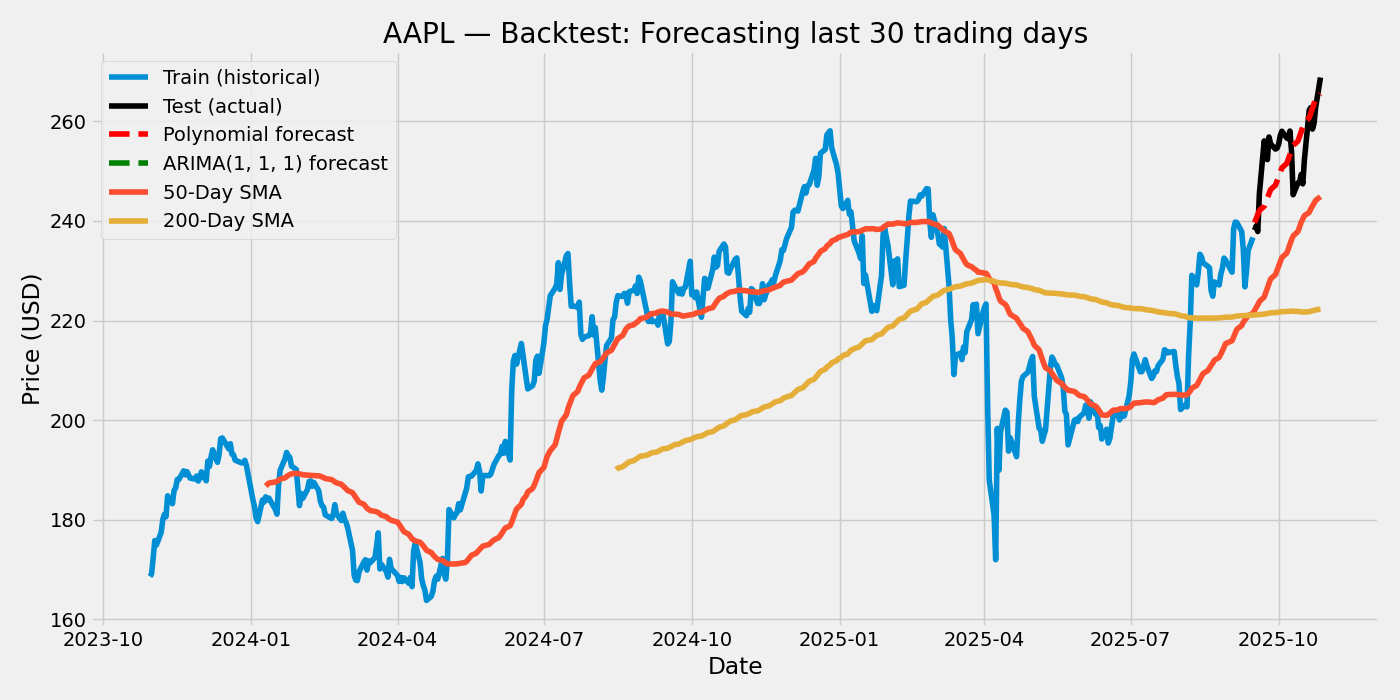
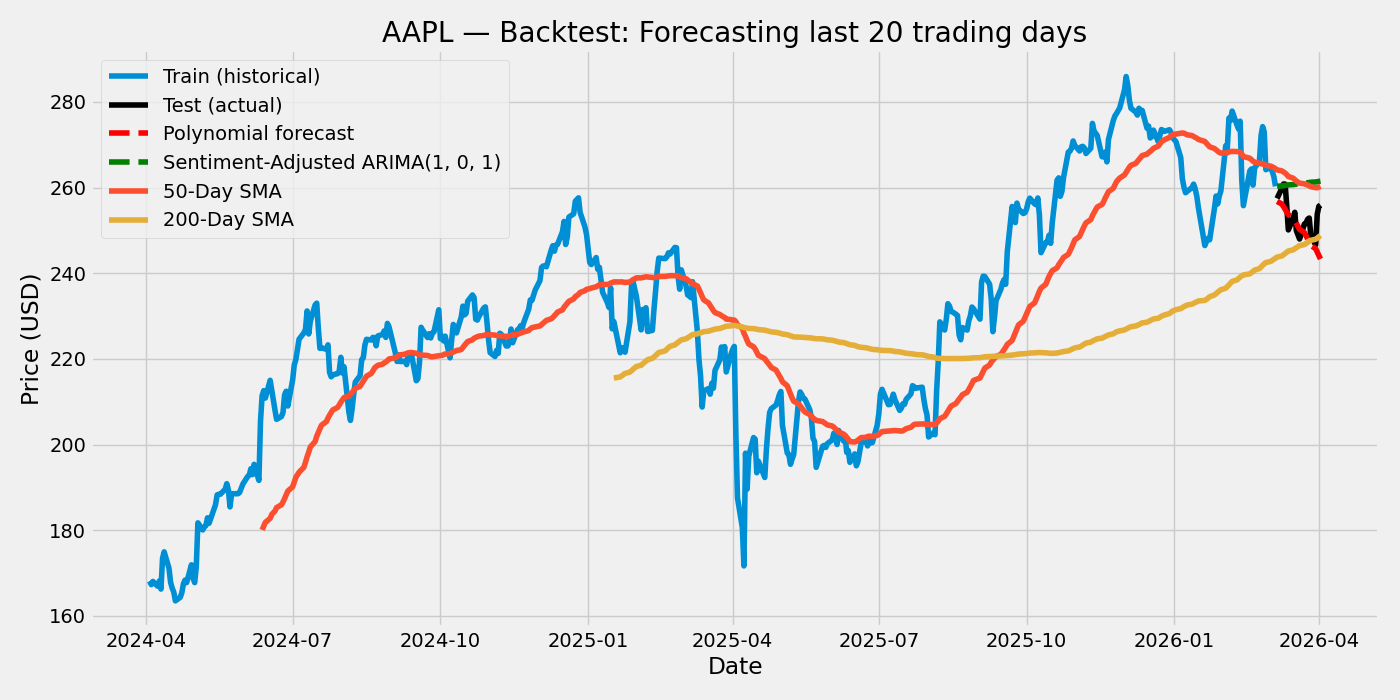
feat: integrate VADER sentiment analysis into ARIMA forecasting pipeline and add data inspection utility

diff --git a/analyzer.py b/analyzer.py
@@ -6,6 +6,15 @@ import yfinance as yf
 import pandas as pd
 import matplotlib.pyplot as plt
 import warnings
+import datetime
+import nltk
+from nltk.sentiment.vader import SentimentIntensityAnalyzer
+
+# Ensure the lexicon is downloaded quietly (only downloads if missing)
+try:
+    nltk.data.find('sentiment/vader_lexicon.zip')
+except LookupError:
+    nltk.download('vader_lexicon', quiet=True)
 
 try:
     # statsmodels used for ARIMA implementation
@@ -16,6 +25,76 @@ except Exception:
     ARIMA = None
     # we'll print a helpful message later if these aren't available
 
+def get_recent_news(ticker, days=3):
+    """
+    Fetches news for the given ticker and filters for articles 
+    published within the last specified number of days.
+    Includes a fallback to return all available news if the filter is too strict.
+    """
+    print(f"[*] Fetching news for {ticker}...")
+    
+    ticker_obj = yf.Ticker(ticker)
+    news = ticker_obj.news
+    
+    if not news:
+        print("[-] No news data found for this ticker from Yahoo Finance.")
+        return []
+
+    # Set up our time threshold (UTC)
+    now = datetime.datetime.now(datetime.timezone.utc)
+    threshold = now - datetime.timedelta(days=days)
+    
+    recent_articles = []
+    
+    for art in news:
+        if 'providerPublishTime' in art:
+            pub_time = datetime.datetime.fromtimestamp(
+                art['providerPublishTime'], datetime.timezone.utc
+            )
+            if pub_time > threshold:
+                recent_articles.append(art)
+                
+    # --- NEW FALLBACK LOGIC ---
+    if len(recent_articles) == 0:
+        print(f"[-] No articles strictly within the last {days} days.")
+        print(f"[*] Falling back to the {len(news)} most recent articles provided by the API.")
+        return news
+    # --------------------------
+        
+    print(f"[+] Found {len(recent_articles)} articles from the last {days} days.")
+    return recent_articles
+
+def calculate_vader_sentiment(articles):
+    """
+    Takes a list of news article dictionaries, extracts the titles,
+    and returns an average VADER compound sentiment score (-1 to 1).
+    """
+    if not articles:
+        print("[-] No articles to analyze. Defaulting sentiment to 0 (Neutral).")
+        return 0.0
+        
+    sia = SentimentIntensityAnalyzer()
+    scores = []
+    
+    for art in articles:
+        # Try to get the title directly, or from a nested 'content' dictionary if Yahoo changed it
+        title = art.get('title')
+        if not title and 'content' in art:
+            title = art['content'].get('title', '')
+            
+        if title:
+            score = sia.polarity_scores(title)['compound']
+            scores.append(score)
+            print(f"    -> Scored: {score:.4f} | Headline: {title[:50]}...")
+            
+    if not scores:
+        print("[-] Could not extract valid text from the API payload. Defaulting sentiment to 0 (Neutral).")
+        return 0.0
+        
+    avg_sentiment = sum(scores) / len(scores)
+    print(f"[+] Average Sentiment Score for recent news: {avg_sentiment:.4f}")
+    return avg_sentiment
+
 def analyze_stock(ticker):
     #Fetching historical data for the ticker symbol entered
     try:
@@ -24,6 +103,18 @@ def analyze_stock(ticker):
         if stock_data.empty:
             print(f"Error, no data found for the tickerSymbol '{ticker}', might be an invalid symbol")
             return
+        
+        # === INJECT THE SENTIMENT PIPELINE HERE ===
+        print("\n--- RUNNING SENTIMENT PIPELINE ---")
+        recent_news = get_recent_news(ticker, days=3)
+        sentiment_score = calculate_vader_sentiment(recent_news)
+        print("----------------------------------\n")
+        # ==========================================
+        
+        # Flatten MultiIndex columns if they exist (yfinance sometimes returns them for single tickers)
+        if isinstance(stock_data.columns, pd.MultiIndex):
+            stock_data.columns = stock_data.columns.get_level_values(0)
+
         #Simple mean average - sma of closing prices over 50days and 200 days
         stock_data['SMA_50'] = stock_data['Close'].rolling(window=50).mean()
         stock_data['SMA_200'] = stock_data['Close'].rolling(window=200).mean()
@@ -32,7 +123,7 @@ def analyze_stock(ticker):
         df = stock_data[['Close']].copy()
 
         # Use last 30 trading days as the test period
-        test_horizon = 30
+        test_horizon = 20
         if len(df) < test_horizon + 10:
             print("Not enough data to perform a 30-day backtest. Need at least 40 trading days.")
             return
@@ -42,7 +133,7 @@ def analyze_stock(ticker):
 
         # ---------------- Polynomial baseline (similar to original, but trained on window before cutoff)
         # We'll use up to last 60 days of training data to fit the polynomial for fairness with original code
-        poly_window = 60
+        poly_window = 120
         poly_train = train.tail(poly_window).copy()
         poly_train = poly_train.reset_index(drop=True)
         poly_train['day_index'] = np.arange(len(poly_train))
@@ -99,9 +190,17 @@ def analyze_stock(ticker):
                 forecasted_prices = []
                 current_price = last_price
                 
+                # --- SENTIMENT ADJUSTMENT ---
+                # How much power sentiment has over the daily price. 
+                # 0.001 means a perfect 1.0 sentiment score adds a 0.1% daily drift.
+                sentiment_weight = 0.022 
+                
                 for ret in return_forecast:
-                    # Convert log return to price multiplier and apply
-                    price_multiplier = np.exp(ret)
+                    # Nudge the predicted return up or down based on news
+                    adjusted_ret = ret + (sentiment_score * sentiment_weight)
+                    
+                    # Convert adjusted log return to price multiplier and apply
+                    price_multiplier = np.exp(adjusted_ret)
                     next_price = current_price * price_multiplier
                     forecasted_prices.append(next_price)
                     current_price = next_price
@@ -134,7 +233,7 @@ def analyze_stock(ticker):
         plt.plot(test.index, test['Close'], label='Test (actual)', color='black')
         plt.plot(poly_pred_series.index, poly_pred_series.values, '--', label='Polynomial forecast', color='red')
         if arima_pred_series is not None:
-            plt.plot(arima_pred_series.index, arima_pred_series.values, '--', label=f'ARIMA{arima_order} forecast', color='green')
+            plt.plot(arima_pred_series.index, arima_pred_series.values, '--', label=f'Sentiment-Adjusted ARIMA{arima_order}', color='green')
 
         plt.plot(stock_data['SMA_50'], label='50-Day SMA')
         plt.plot(stock_data['SMA_200'], label='200-Day SMA')

diff --git a/inspect_data.py b/inspect_data.py
@@ -1,0 +1,9 @@
+import yfinance as yf
+import pandas as pd
+
+ticker = "AAPL"
+data = yf.download(ticker, period="1mo")
+print("Data columns:", data.columns)
+print("Data head:\n", data.head())
+print("Close column type:", type(data['Close']))
+print("Close column values:\n", data['Close'].head())
